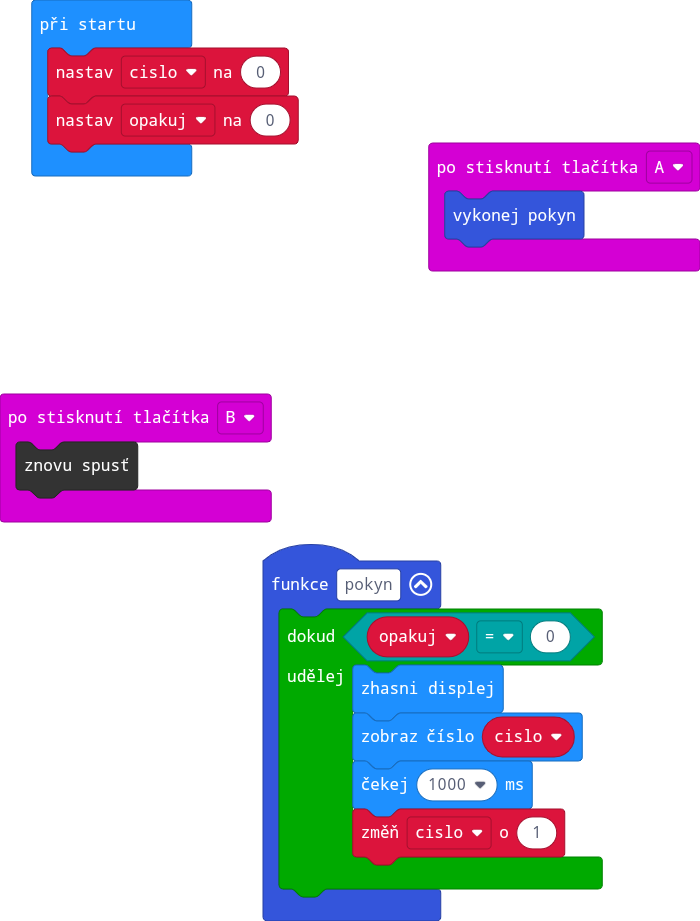
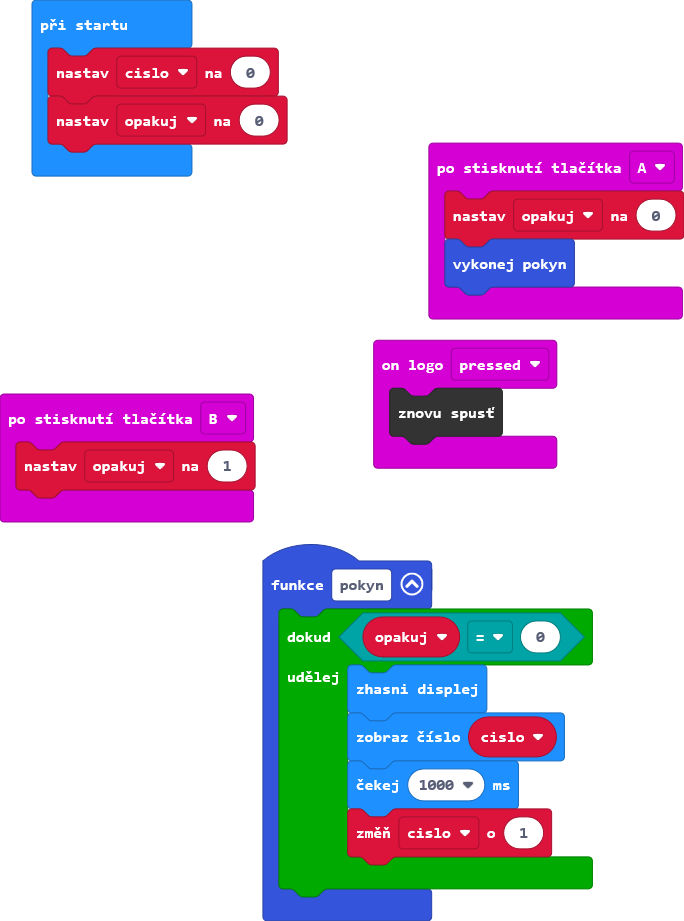
Aktualizovat pxt.json, main.blocks, main.ts

diff --git a/main.ts b/main.ts
@@ -7,9 +7,13 @@ function pokyn () {
     }
 }
 input.onButtonPressed(Button.A, function () {
+    opakuj = 0
     pokyn()
 })
 input.onButtonPressed(Button.B, function () {
+    opakuj = 1
+})
+input.onLogoEvent(TouchButtonEvent.Pressed, function () {
     control.reset()
 })
 let opakuj = 0
